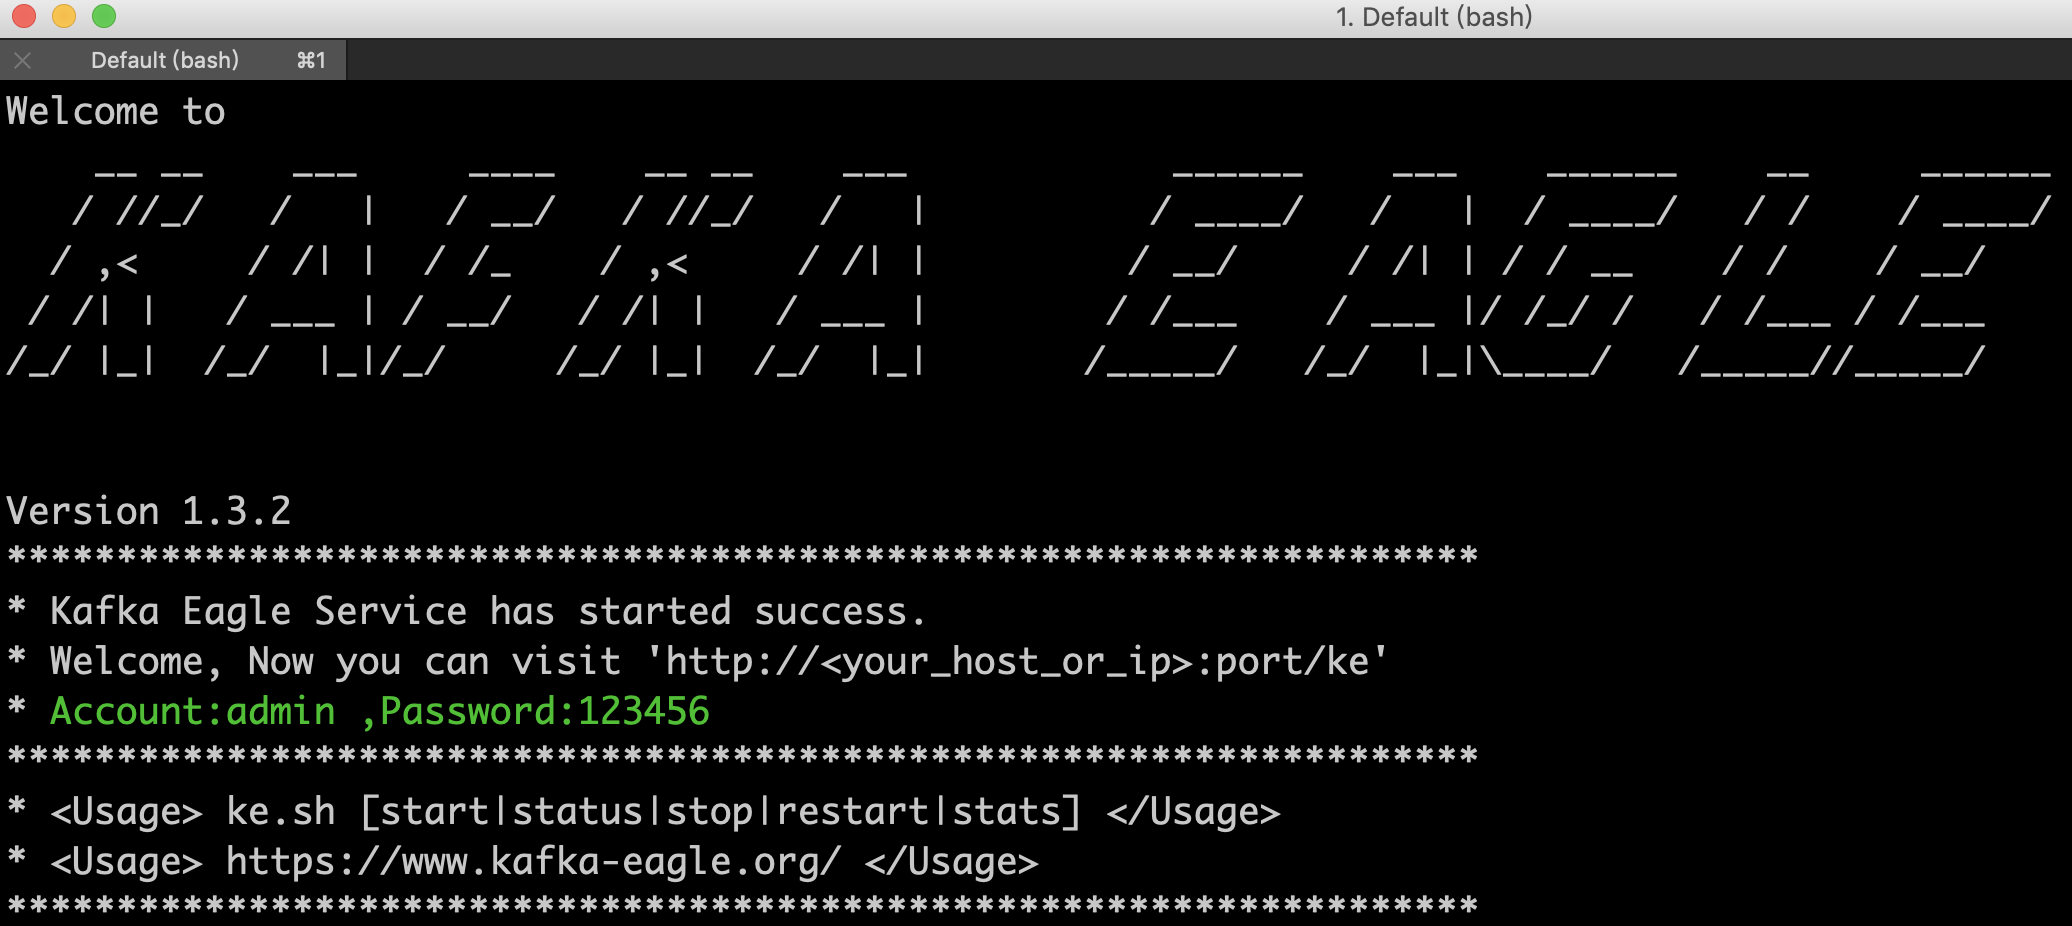
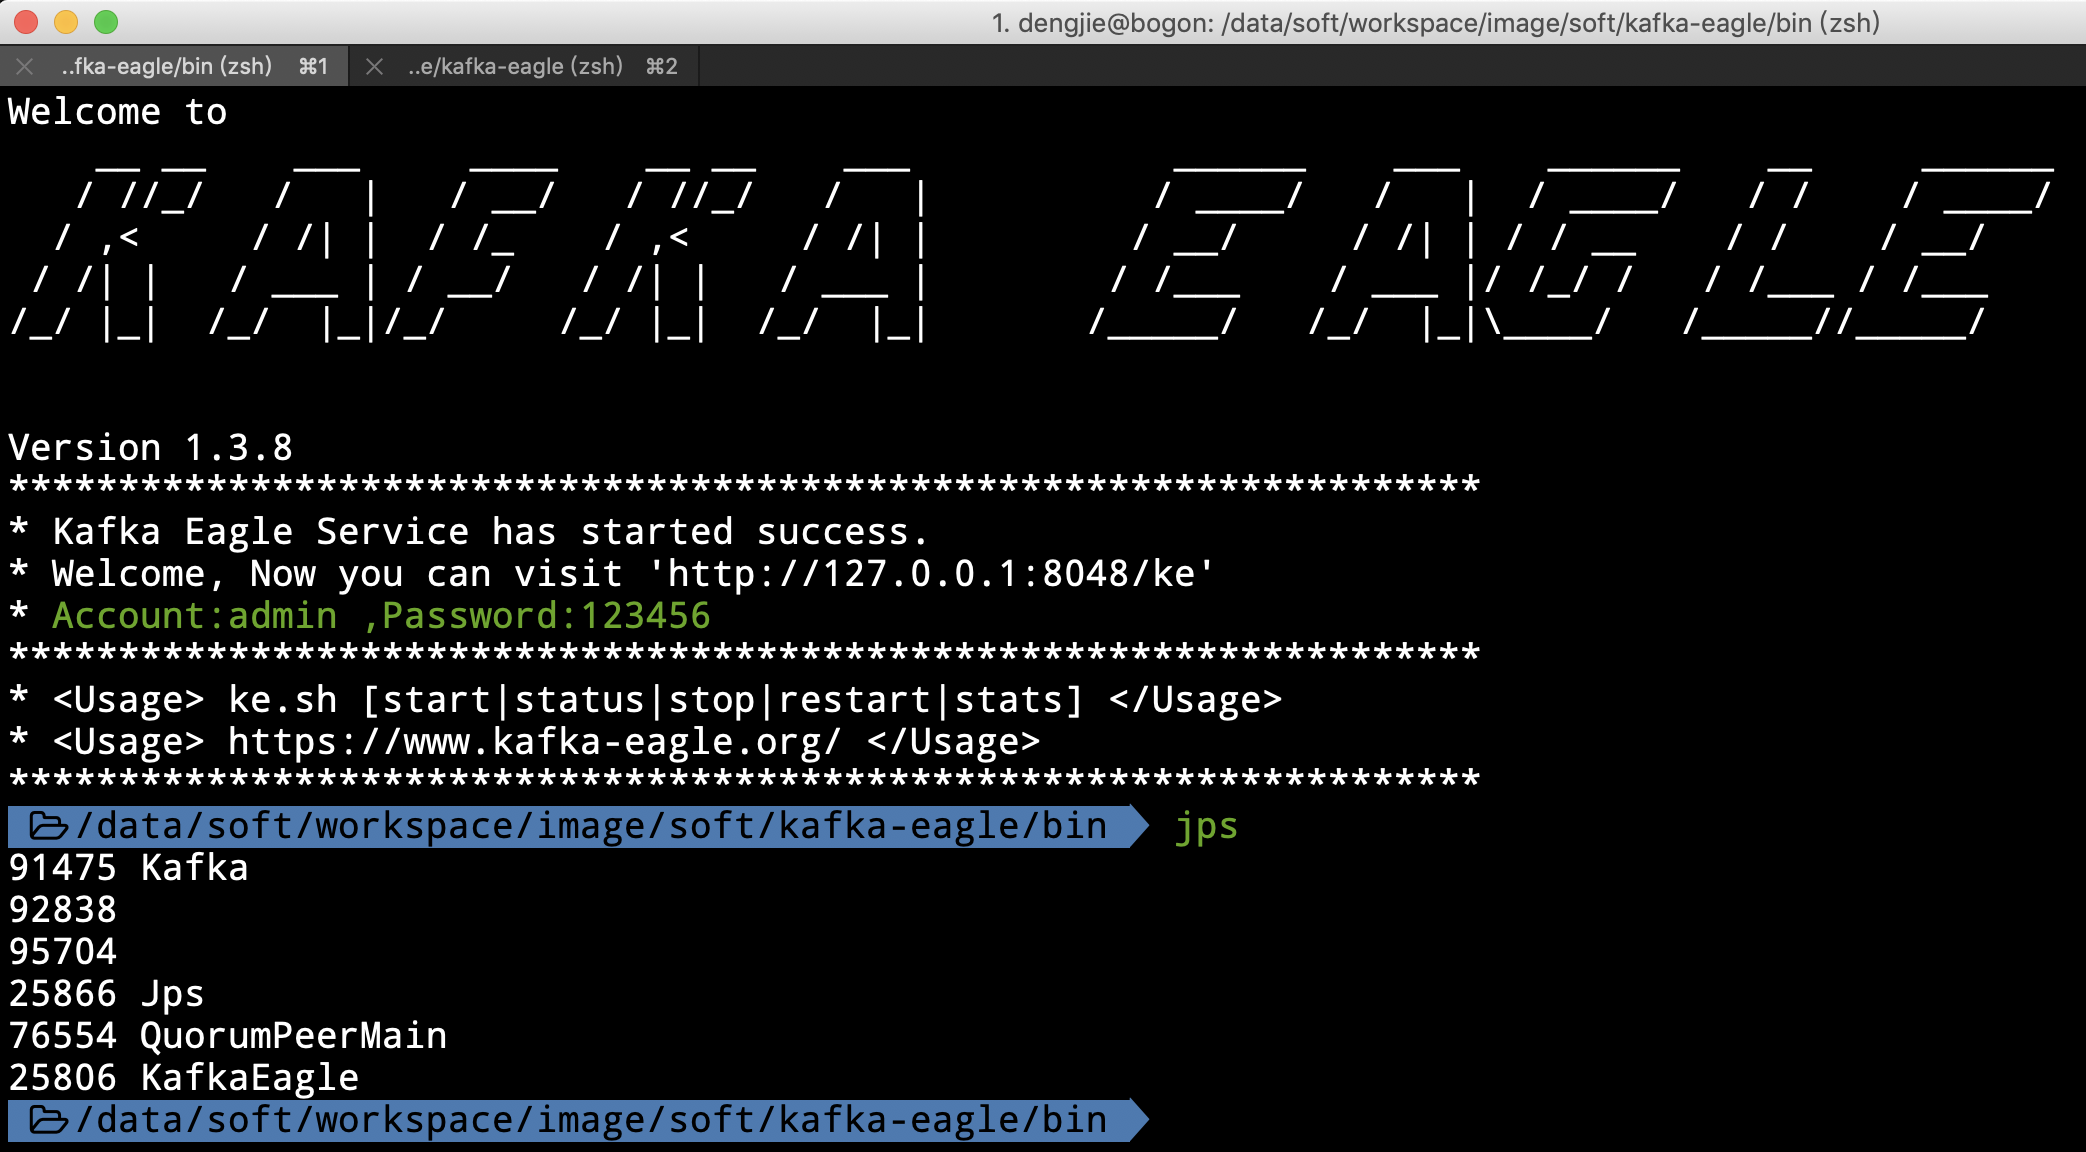
release v1.3.8

diff --git a/5.ChangeLog/1.ChangeLog.md b/5.ChangeLog/1.ChangeLog.md
@@ -1,3 +1,10 @@
+# [Release V1.3.8] 2019-08-27
+  [Release] Add：Release [Kafka Eagle V1.3.8](https://github.com/smartloli/kafka-eagle-bin/archive/v1.3.8.tar.gz) version,The following changes:
+
+  1. Fixed consumer groups load slowed issues [#211](https://github.com/smartloli/kafka-eagle/issues/211) .
+  2. Fixed user reset password issues [#192](https://github.com/smartloli/kafka-eagle/issues/192) .
+  3. Fixed add producer metrics issues [#199](https://github.com/smartloli/kafka-eagle/issues/199) .
+
 # [Release V1.3.7] 2019-08-13
   [Release] Add：Release [Kafka Eagle V1.3.7](https://github.com/smartloli/kafka-eagle-bin/archive/v1.3.7.tar.gz) version,The following changes:
 
